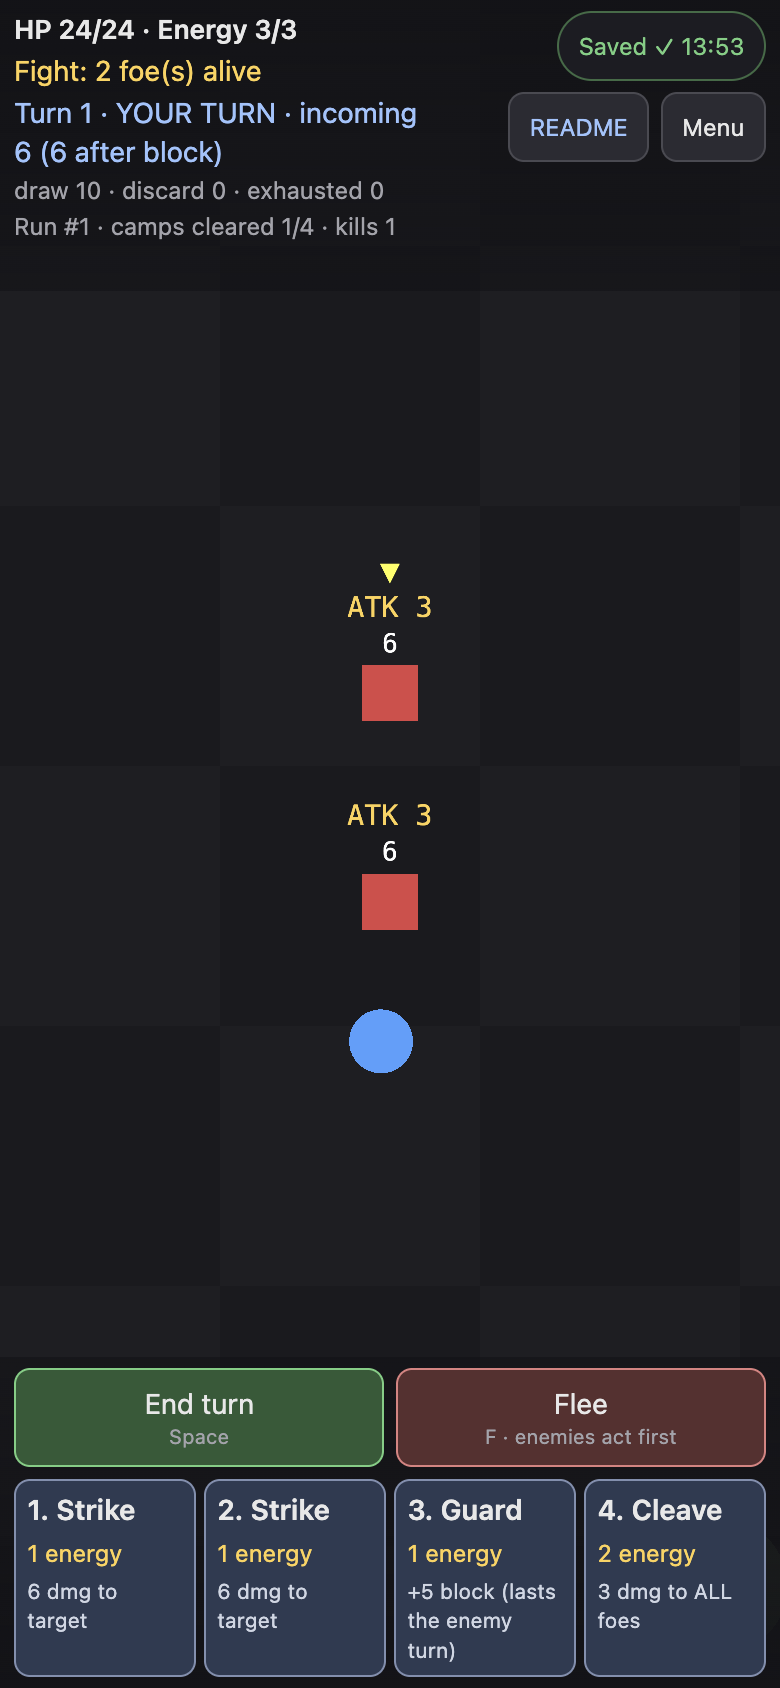
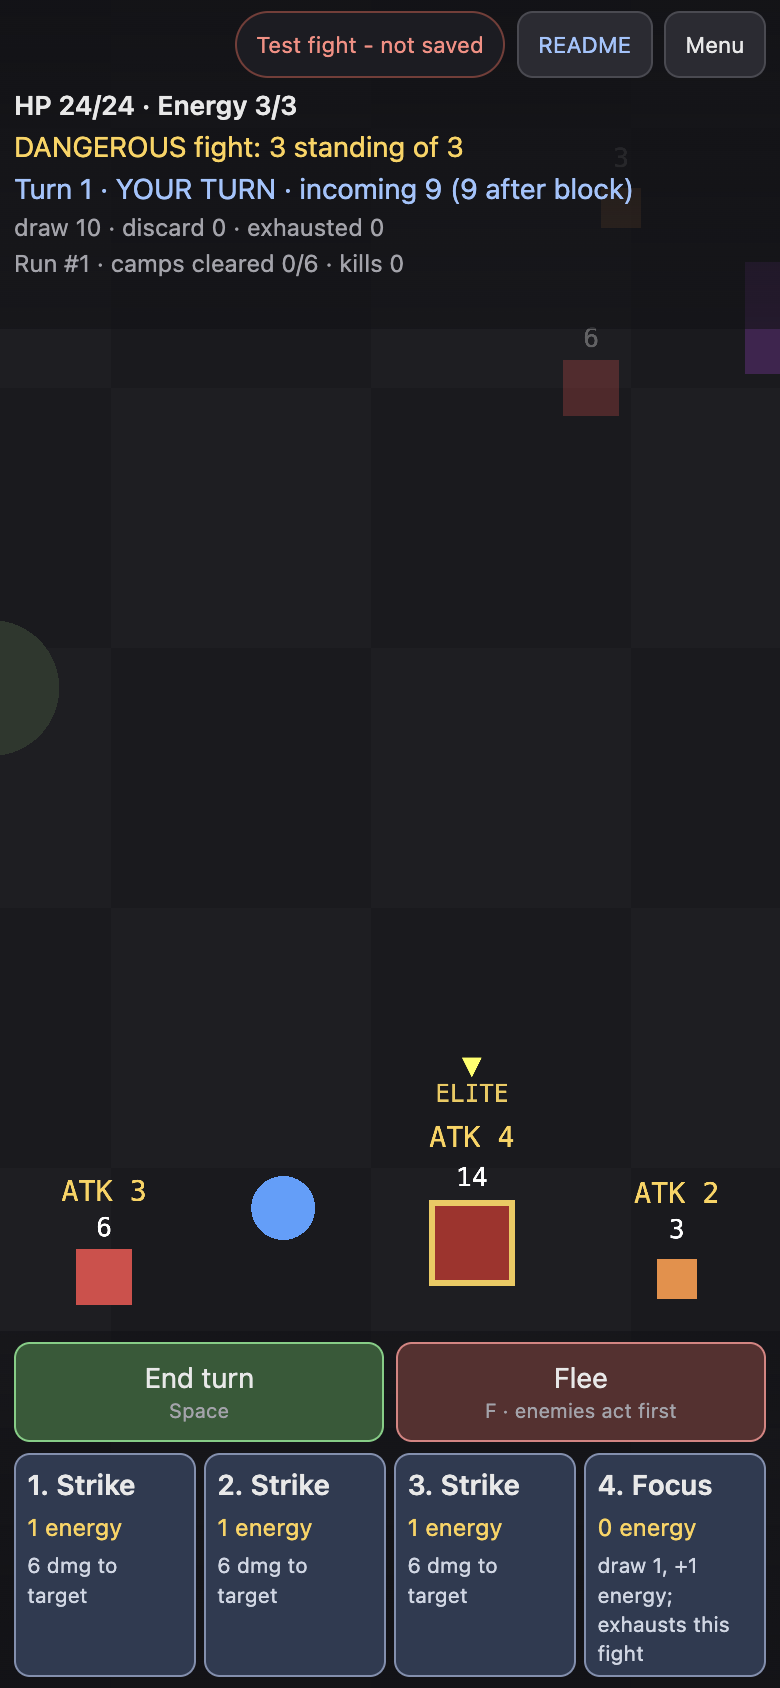
Verify old saves end to end; document the monster rules
src/store-migration.test.ts writes a raw v1 row into the real SQLite store
and reads it back as a valid v2 save that can be saved over;
persistence-check.sh plants the same v1 save on the production container's
volume and loads it over HTTP; playtest.mjs --suite=legacy continues it in
Chrome (old kills stay dead, a wounded enemy keeps its HP, the new camps and
the mage are there, HP and stats carry over). The walk helper now heads for
the nearest camp, which the split west scouts made necessary.

balance.ts hand plays one fixed hand (Strike, Strike, Cleave, Guard) against
each group: Strike a lone grunt, Cleave the swarm, kill the grunts then the
reviving mage, Cleave + Strike the captain's escort and Guard its heavy hit.

README promises now cover packs, readable revives and charges, and "each
enemy changes your plan" (judged, with the bot as evidence), at 600 words,
with current screenshots. CLAUDE.md adds the monster, pack, downed/revive,
phase and save-migration rules plus the new commands. ADR 0003 records the
decision, its costs and how it was verified.

diff --git a/tools/balance.ts b/tools/balance.ts
@@ -10,7 +10,8 @@ import {
 } from "../src/combat.ts";
 import { ENEMY_SPAWNS, PLAYER_MAX_HP, UNITS } from "../src/world.ts";
 
-const RUNS = Number(process.argv[2] ?? 2000);
+const DEMO = process.argv[2] === "hand";
+const RUNS = DEMO ? 0 : Number(process.argv[2] ?? 2000);
 const HEAL = process.argv[3] ?? "none";
 
 function rng(seed: number): Rng {
@@ -40,6 +41,7 @@ const value = (u: CombatUnit) => {
   return dmg + (u.role === "mage" ? 2 : 0);
 };
 
+const PLAYS: string[] = [];
 /** Greedy turn: Focus first; kill what dies to a Strike (most dangerous first); Cleave a crowd; Guard a big hit; else Strike the most dangerous. */
 function playTurn(f: Fight, piles: Piles, r: Rng, energy: number) {
   for (let guardDone = false; ;) {
@@ -50,6 +52,7 @@ function playTurn(f: Fight, piles: Piles, r: Rng, energy: number) {
     const incoming = st.reduce((s, u) => s + (u.intent?.kind === "attack" ? u.intent.value : 0), 0) - f.player.block;
     const play = (i: number, fn: () => void) => {
       const card = takeFromHand(piles, i)!;
+      PLAYS.push(card.name);
       energy -= card.cost;
       fn();
       settlePlayed(piles, card);
@@ -68,6 +71,7 @@ function playTurn(f: Fight, piles: Piles, r: Rng, energy: number) {
       continue;
     }
     if (idx("Strike") >= 0 && energy >= 1 && strikeable.length) {
+      PLAYS.push(`->${strikeable[0].key}`);
       play(idx("Strike"), () => hitUnit(f, strikeable[0].key, 6));
       continue;
     }
@@ -78,6 +82,7 @@ function playTurn(f: Fight, piles: Piles, r: Rng, energy: number) {
     }
     if (idx("Strike") >= 0 && energy >= 1) {
       const t = st.slice().sort((a, b) => value(b) - value(a) || a.hp - b.hp)[0];
+      PLAYS.push(`->${t.key}`);
       play(idx("Strike"), () => hitUnit(f, t.key, 6));
       continue;
     }
@@ -143,6 +148,43 @@ function runOnce(seed: number) {
     if (HEAL.startsWith("win:")) player.hp = Math.min(PLAYER_MAX_HP, player.hp + Number(HEAL.slice(4)));
   }
   return { won: true, diedAt: null, taken, turns, hpLeft: player.hp };
+}
+
+if (DEMO) {
+  // One fixed hand against each group, two turns: what does the policy do differently?
+  const { CARD_LIBRARY } = await import("../src/cards.ts");
+  const hand = [CARD_LIBRARY.strike, CARD_LIBRARY.strike, CARD_LIBRARY.cleave, CARD_LIBRARY.guard];
+  const groups: [string, string[], Record<string, number>][] = [
+    ["lone grunt", ["west-1"], {}],
+    ["swarm x3", ["swarm-1", "swarm-2", "swarm-3"], {}],
+    ["mage + 2 grunts", ["north-1", "north-2", "north-mage"], {}],
+    ["captain + escort, captain about to charge", ["ridge-1", "ridge-captain", "ridge-2"], { "ridge-captain": 1 }],
+    ["captain + escort, heavy hit due", ["ridge-1", "ridge-captain", "ridge-2"], { "ridge-captain": 2 }],
+    ["warlord + guard", ["lair-guard", "lair-guard-2", "lair-boss"], {}],
+  ];
+  console.log("same opening hand every time: Strike, Strike, Cleave, Guard (3 energy)\n");
+  for (const [name, ids, ph] of groups) {
+    const units = ids.map((id) => {
+      const sp = ENEMY_SPAWNS.find((x) => x.id === id)!;
+      return makeUnit(id, sp.role, sp.group, undefined, ph[id] ?? 0);
+    });
+    const f = beginFight(units, { hp: PLAYER_MAX_HP, block: 0 });
+    const lines: string[] = [];
+    for (let t = 1; t <= 2 && !isWon(f); t++) {
+      startPlayerTurn(f);
+      const intents = units.filter((u) => !u.downed).map((u) => `${u.key}:${u.intent?.kind === "attack" ? `atk${u.intent.value}` : u.intent?.kind === "revive" ? `revive ${u.intent.target}` : u.intent?.kind}`).join(" ");
+      const piles = { draw: [], hand: hand.slice(), discard: [], exhaust: [] } as Piles;
+      PLAYS.length = 0;
+      playTurn(f, piles, rng(1), 3);
+      lines.push(`  turn ${t} [${intents}] -> ${PLAYS.join(" ").replace(/ ->/g, "->")}${f.player.block ? ` (block ${f.player.block})` : ""}`);
+      if (isWon(f)) break;
+      beginEnemyTurn(f);
+      for (const ev of planEnemyTurn(f).events) applyEnemyEvent(f, ev);
+      f.player.block = 0;
+    }
+    console.log(`${name}:\n${lines.join("\n")}\n`);
+  }
+  process.exit(0);
 }
 
 const tally = { reviveShown: 0, reviveDone: 0, reviveCancelled: 0, heavyLanded: 0, heavyShown: 0, guardOnHeavy: 0 };

diff --git a/src/store-migration.test.ts b/src/store-migration.test.ts
@@ -1,0 +1,46 @@
+import { mkdtempSync, rmSync } from "node:fs";
+import { tmpdir } from "node:os";
+import { join } from "node:path";
+import { DatabaseSync } from "node:sqlite";
+import { afterEach, describe, expect, it } from "vitest";
+import { openStore } from "../server/store.ts";
+import { validateSave } from "./save.ts";
+
+// The real SQLite store, on a throwaway directory: a row written by the v1
+// game comes back as a valid v2 save, and saving over it works.
+let dir = "";
+afterEach(() => dir && rmSync(dir, { recursive: true, force: true }));
+
+describe("stored v1 saves", () => {
+  it("are migrated to v2 on read and can be saved over", () => {
+    dir = mkdtempSync(join(tmpdir(), "cc-store-"));
+    const store = openStore(dir);
+    store.ensureVisitor("v1visitor");
+    store.close();
+    const raw = new DatabaseSync(join(dir, "game.sqlite"));
+    const v1 = {
+      v: 1, runId: "run_oldsave1", runNumber: 2, startedAt: 1_700_000_000_000, savedAt: 1_700_000_100_000,
+      reason: "victory", outcome: "playing", player: { hp: 13, x: 900, y: 500 },
+      enemies: { "west-1": 0, "west-2": 0, "south-1": 4, "north-1": 6, "north-2": 6, "north-3": 6, "lair-guard": 6, "lair-boss": 40 },
+      stats: { fights: 3, wins: 2, flees: 1, kills: 2 },
+    };
+    raw.prepare("INSERT INTO saves (visitor_id, revision, data, updated_at) VALUES (?, ?, ?, ?)").run("v1visitor", 7, JSON.stringify(v1), Date.now());
+    raw.close();
+
+    const again = openStore(dir);
+    const got = again.getSave("v1visitor")!;
+    expect(got.revision).toBe(7);
+    expect(got.save.v).toBe(2);
+    expect(validateSave(got.save).ok).toBe(true);
+    expect(got.save.enemies["west-1"]).toBe(0);
+    expect(got.save.enemies["south-1"]).toBe(4);
+    expect(got.save.enemies["north-mage"]).toBe(9); // north wasn't cleared: its new mage starts at full HP
+    expect(got.save.phases).toEqual({ "ridge-captain": 0, "lair-boss": 0 });
+    expect(got.save.player).toEqual({ hp: 13, x: 900, y: 500 });
+
+    const next = { ...got.save, savedAt: got.save.savedAt + 1, reason: "engage" as const, stats: { ...got.save.stats, fights: 4 } };
+    expect(again.putSave("v1visitor", 7, next)).toBe(8);
+    expect(again.getSave("v1visitor")!.save.reason).toBe("engage");
+    again.close();
+  });
+});

diff --git a/README.md b/README.md
@@ -4,7 +4,7 @@ A small card-battle trek for a handful of friends: walk the map, choose which
 enemies to pull into each fight, read their next move, and play your hand.
 Your run is kept on the server for your browser, no account needed.
 
-![A fight against the boss and three grunts: each enemy shows its next move above its HP](docs/fight-desktop.png)
+![A mage fight: the mage shows REVIVE +3 and the fallen grunt shows it is the target](docs/fight-desktop.png)
 
 ## Who it's for
 
@@ -17,43 +17,45 @@ up later, and not be hurried while they think.
 **Enforced** means a test fails if it breaks; **judged** means I check it by playing.
 
 1. **Thinking is free.** Nothing happens during your turn until you end it: no
-   timers, no regeneration, no enemy moves. *Enforced:* the phase machine
-   tests in `src/turn.test.ts`, plus a browser check that two idle seconds
-   change nothing.
-2. **You choose the size of every fight.** When an enemy reaches you, the
-   enemies near you that are chasing you join; idle ones don't. Splitting a
-   pack is the skill. *Enforced:* the rule
-   in `src/encounter.test.ts`. *Judged:* whether it feels predictable.
-3. **Every enemy's next move is readable.** Enemies show their intent with
-   exact numbers, and no two bodies, HP labels or intents overlap, at
-   1920x1080 or 390x844. Fights too big to lay out move to a side list
-   instead of shrinking. *Enforced:* `src/formation.test.ts` across both
-   viewports, map corners and crowd sizes.
-4. **Fleeing is honest.** Enemies still take their shown actions before you
-   escape, so fleeing never resets a bad turn for free. *Enforced:* phase and
-   resolve tests.
-5. **Cards never vanish.** The 14-card deck is conserved across draw, hand,
+   timers, no regeneration, no enemy moves. *Enforced:* `src/turn.test.ts`,
+   `src/combat.test.ts` and a browser check.
+2. **You choose the size of every fight.** Lone enemies notice you one at a
+   time, so you can split them; a pack (outlined, named on the ground)
+   wakes, chases and joins together. *Enforced:* `src/encounter.test.ts`.
+   *Judged:* whether it feels predictable.
+3. **Every enemy's next move is readable,** with real numbers: who a mage
+   will revive, what a charge leads to. Nothing overlaps at 1920x1080 or
+   390x844; big fights use a side list instead of shrinking. *Enforced:*
+   `src/combat.test.ts`, `src/formation.test.ts`.
+4. **Each enemy changes your plan.** Swarmlings reward Cleave, a mage makes
+   you choose between it and its grunts, a captain's charge is the time to
+   Guard. *Judged* in play; `tools/balance.ts hand` shows a bot playing one
+   hand differently against each group.
+5. **Fleeing is honest.** Enemies still take their shown actions before you
+   escape, and elites remember their charge. *Enforced:* phase and combat
+   tests.
+6. **Cards never vanish.** The 14-card deck is conserved across draw, hand,
    discard and this fight's exhaust pile. *Enforced:* `src/cards.test.ts`,
    including 300 random fights.
-6. **Your run is still there tomorrow.** The server saves a checkpoint when a
+7. **Your run is still there tomorrow.** The server saves a checkpoint when a
    fight starts and after you win, flee or fall. "Saved" appears only after
    the server confirms, a run's final result is saved before the next run
    starts, and a killed enemy can't come back. *Enforced:* `src/net.test.ts`,
    `spec/saves.test.ts`, and `tools/persistence-check.sh` (restart, rebuild).
-7. **A phone is a full controller.** Tap to move, tap enemies and cards, with
+8. **A phone is a full controller.** Tap to move, tap enemies and cards, with
    text that stays readable. *Judged, with checks:* `tools/playtest.mjs`
-   plays a whole save loop with touch input on a 390x844 screen.
+   plays with touch at 390x844.
 
-![A fight on a 390x844 phone: the hand and End turn / Flee reflow below the map](docs/fight-phone.png)
+![The captain's pack on a 390x844 phone: the gold-outlined ELITE and its escort, hand below](docs/fight-phone.png)
 
-## This version (crit 8)
+## This version
 
-You can explore, fight, flee, die, and come back to a restored run. Closing the tab mid-fight returns you to the moment that fight
-started. Starting a new run keeps the old one in your history; only "Erase my
+You can explore six camps, fight, flee, die, and come back to a restored
+run. Closing the tab mid-fight returns you to when that fight started. Starting a new run keeps the old one in your history; only "Erase my
 saved data", confirmed by typing ERASE, deletes anything.
 
-Not built yet: anything shared between players (crit 9), accounts, art,
-and content beyond four camps and one boss.
+Not built yet: anything shared between players (crit 9), accounts, loot,
+talents and art.
 
 ## Where these ideas came from
 

diff --git a/CLAUDE.md b/CLAUDE.md
@@ -3,8 +3,10 @@
 The argument for what good means is `README.md`. These are the standards a
 change must meet; each one came from a playtest correction or a bug that
 reached a build. Pure rules live in `src/cards.ts`, `src/turn.ts`,
-`src/formation.ts`, `src/separation.ts` and `src/save.ts`; keep them free of
-Kaplay and the DOM so they stay testable.
+`src/combat.ts`, `src/encounter.ts`, `src/formation.ts`, `src/separation.ts`,
+`src/save.ts` and the data in `src/world.ts`; keep them free of Kaplay and the
+DOM so they stay testable, and keep every fight state change in
+`src/combat.ts` (main.ts animates, it doesn't decide).
 
 ## Combat must never punish thinking
 
@@ -19,6 +21,30 @@ Kaplay and the DOM so they stay testable.
   survives. Never make flee free.
 - Every fight participant must show its intent with exact numbers; the boss's
   charge names the hit it leads to.
+
+## Monsters are data, and each one changes the plan
+
+- Units are described in `src/world.ts`: tier (normal / elite / boss) is how
+  dangerous, role (grunt, swarmling, mage, captain, warlord) is what it does,
+  `pattern` is its action cycle. Add or tune a unit there, not in main.ts.
+- A new unit or camp needs a reason in play: what card, target order or Guard
+  timing it asks for. Check it with `node tools/balance.ts` (whole runs must
+  stay winnable) and `node tools/balance.ts hand` (does one hand play
+  differently against it?), then by playing.
+- Skirmishers notice and give up alone. A pack alerts only its own members,
+  gives up together past its leash, and joins a fight whole. A fight's
+  roster is the trigger, nearby chasers and their alerted packs: no
+  recursion, no duplicates, fixed once formation starts (`src/encounter.ts`).
+- A fallen enemy is *downed*: it keeps its slot and is shown as a body until
+  the fight ends, and only then is it confirmed dead and counted, once by
+  stable id. Never destroy an enemy mid-fight.
+- A mage's revive follows `src/combat.ts` exactly: same-pack grunt or
+  swarmling that fell on an earlier turn, half HP, one success per mage and
+  one per member per fight, shown with its target before the enemy turn,
+  cancelled if the mage falls, fizzles (never re-targets) if the target is
+  up, and the revived unit waits a turn. Confirmed-dead enemies never return.
+- Elite and boss phases persist across flee, reload and new fights; a charge
+  that resolved is followed by its heavy hit, never reset.
 
 ## Cards are conserved
 
@@ -45,7 +71,11 @@ Kaplay and the DOM so they stay testable.
 ## Saves are honest
 
 - Enemies are saved by the stable ids in `src/world.ts`, never by runtime
-  `enemyId`. Never renumber or reuse an id.
+  `enemyId`. Never renumber or reuse an id; a new member gets a new id.
+- Changing the save shape, an enemy's max HP or the set of ids needs a version
+  bump and a migration in `upgradeSave` (dead stays dead, wounded HP scaled,
+  new members dead in a cleared camp or an ended run), applied by the server
+  on read, with tests (`src/save.test.ts`, `src/store-migration.test.ts`).
 - Save only at stable moments (run start, fight trigger, victory, flee,
   death). Never save formation slots, half a resolve, or animation state.
 - Load before starting: a default new game must never overwrite a save.
@@ -87,13 +117,15 @@ pnpm dev                            # app + API on :8080 (saves in .data/)
 APP_URL=http://localhost:8080 pnpm check   # rules + spec/ against the running app
 pnpm playtest                       # real Chrome: combat, save loop, both viewports
 node tools/playtest.mjs --suite=race   # new run vs a slow / offline final save
+node tools/playtest.mjs --suite=monsters,groups   # packs, revive, elite cycle; every camp at both viewports
+node tools/balance.ts [runs]           # whole runs with the real rules: must stay winnable
 sh tools/persistence-check.sh       # saves survive restart and rebuild (Docker)
 pnpm check:evidence
 ```
 
 For the production image: `docker build -t app . && docker run -p 8090:8080
 --tmpfs /data app`, then `APP_URL=http://localhost:8090 pnpm check` and
-`node tools/playtest.mjs http://localhost:8090/ --suite=prodguard,save,viewports`.
+`PLAYTEST_CONTAINER=<name> node tools/playtest.mjs http://localhost:8090/ --suite=prodguard,save,viewports,race,legacy`.
 Report what was actually run, and say plainly what wasn't verified.
 
 ## Process

diff --git a/docs/adr/0003-monster-roles-and-packs.md b/docs/adr/0003-monster-roles-and-packs.md
@@ -1,0 +1,44 @@
+# ADR 0003: Monsters as data (tier, role, pack), downed-not-dead, save v2
+
+Status: accepted, 2026-10-01
+
+## Context
+
+Every enemy was the same grunt plus one boss, so the only decision in a fight
+was how many to pull. The next step was enemies that change *which* card and
+*which* target: a swarm for Cleave, a mage that revives, an elite that
+charges. A revive needs fallen enemies to stay in the fight, which the old
+code (destroy at 0 HP, and save 0 HP as a permanent kill) couldn't express.
+
+## Decision
+
+- **Data, not code.** `src/world.ts` gives each unit a tier, a role, an
+  action cycle and a group; groups are `skirmish` or `pack` (shared alert,
+  shared leash, joins whole). Six camps on the existing map, v1 ids kept.
+- **One pure combat module.** `src/combat.ts` owns intents, damage, the
+  downed state, revive, the enemy turn and confirmed deaths, so tests and the
+  balance simulator run the exact rules the game runs.
+- **Downed until the fight ends.** At 0 HP a unit is downed in its slot; it
+  can be revived only within that fight, and is confirmed dead (and counted)
+  when the fight ends by victory, flee or death.
+- **Save v2** adds each elite / boss phase. Old saves are migrated by the
+  server on read; the rules are in `upgradeSave`.
+- **No healing yet.** `tools/balance.ts` (greedy bot, 2000 runs) survives a
+  whole run 98.7% of the time on 24 HP without it, so completion doesn't need
+  a new mechanic; the 1.4% deaths are all at the Warlord.
+
+## Costs
+
+- The roster rule now has two parts (nearby chasers + alerted packs), which
+  players have to learn; the ground hint and outline carry that.
+- A pack alerted by a careless approach can pull a bigger fight than intended;
+  that's the point, but it can feel harsh. Judged in play.
+- The bot is an approximation of a player; balance claims based on it are
+  marked as such in the README.
+
+## Verification at the time of the decision
+
+`pnpm test:unit` (rules incl. combat, encounter, save migration, store
+migration), `tools/playtest.mjs --suite=monsters,groups,combat` on the dev
+server, `tools/persistence-check.sh` (incl. a v1 save planted in the
+production container), and the production image suites listed in CLAUDE.md.
